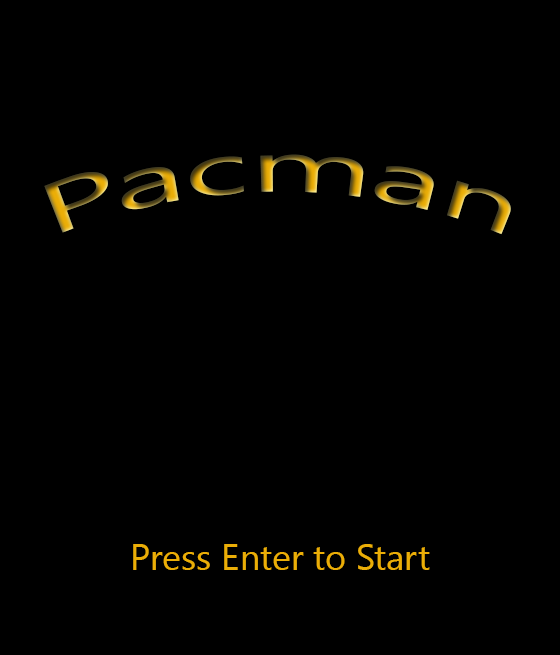
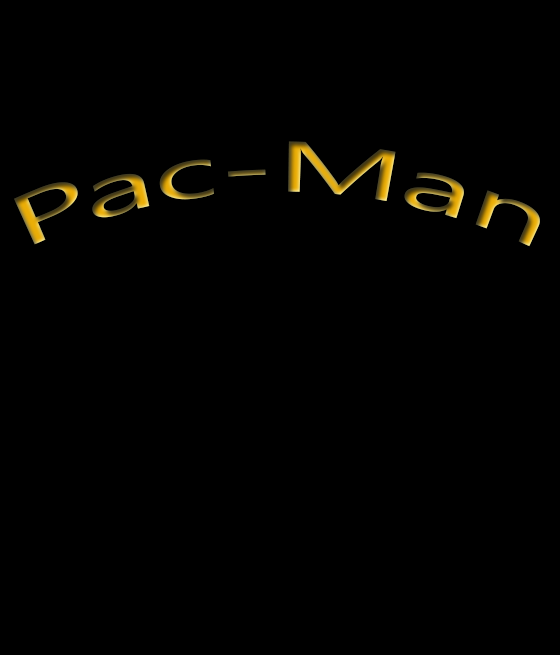
Mer spelfönster!

Changed region(s): [[0.0304, 0.2137, 0.9714, 0.3664], [0.2125, 0.8244, 0.6071, 0.8855], [0.6375, 0.8244, 0.7589, 0.8855]]

diff --git a/John Larsson/Pacman/Pacman/TitelScreen.cs b/John Larsson/Pacman/Pacman/TitelScreen.cs
@@ -13,20 +13,29 @@ namespace Pacman
     public class TitelScreen : GameScreen
     {
         KeyboardState keyState;
-        SpriteFont font;
 
-        FadeAnimation fade;
+        Animation animation;
+        FadeAnimation fade,textFade;
         Texture2D image;
+        Vector2 animationPosition;
 
         public override void LoadContent(ContentManager Content)
         {
             base.LoadContent(Content);
             fade = new FadeAnimation();
+            textFade = new FadeAnimation();
             image = content.Load<Texture2D>("TitelScreen/PacTitel");
             fade.LoadContent(content, image, "", Vector2.Zero);
+            textFade.LoadContent(content, null, "Press Enter to Start", new Vector2(80, 540));
             fade.Scale = 1.0f;
+            textFade.Active = true;
             fade.Active = false;
             fade.FadeSpeed = 1.0f;
+            animationPosition = new Vector2(-40, 340);
+            animation = new Animation();
+            animation.Init(new Vector2(-40, 340), new Vector2(12, 1));
+            animation.AnimationImage = content.Load<Texture2D>("TitelScreen/TitelPacAnim");
+            animation.Active = true;
         }
 
         public override void UnloadContent()
@@ -36,7 +45,14 @@ namespace Pacman
 
         public override void Update(GameTime gameTime)
         {
+            animationPosition = animation.Position;
+            animationPosition.X += 100f * (float)gameTime.ElapsedGameTime.TotalSeconds;
+            if (animationPosition.X >= 560)
+                animationPosition.X = -40;
+            animation.Position = animationPosition;
+            animation.Update(gameTime);
             fade.Update(gameTime);
+            textFade.Update(gameTime);
             keyState = Keyboard.GetState();
             if (keyState.IsKeyDown(Keys.Enter))
                 ScreenManager.Instance.AddScreen(new MainMenu());
@@ -45,6 +61,8 @@ namespace Pacman
         public override void Draw(SpriteBatch spriteBatch)
         {
             fade.Draw(spriteBatch);
+            textFade.Draw(spriteBatch);
+            animation.Draw(spriteBatch);
         }
     }
 }

diff --git a/John Larsson/Pacman/Pacman/MenuManager.cs b/John Larsson/Pacman/Pacman/MenuManager.cs
@@ -29,6 +29,7 @@ namespace Pacman
         SpriteFont font;
 
         int axis,itemNumber;
+        string align;
         #endregion
         #region Privata metoder
         private void SetMenuItems() 
@@ -126,6 +127,9 @@ namespace Pacman
                             break;
                         case "Animation":
                             animationTypes.Add(contents[i][j]);
+                            break;
+                        case "Align":
+                            align = contents[i][j];
                             break;
                     }
                 }
